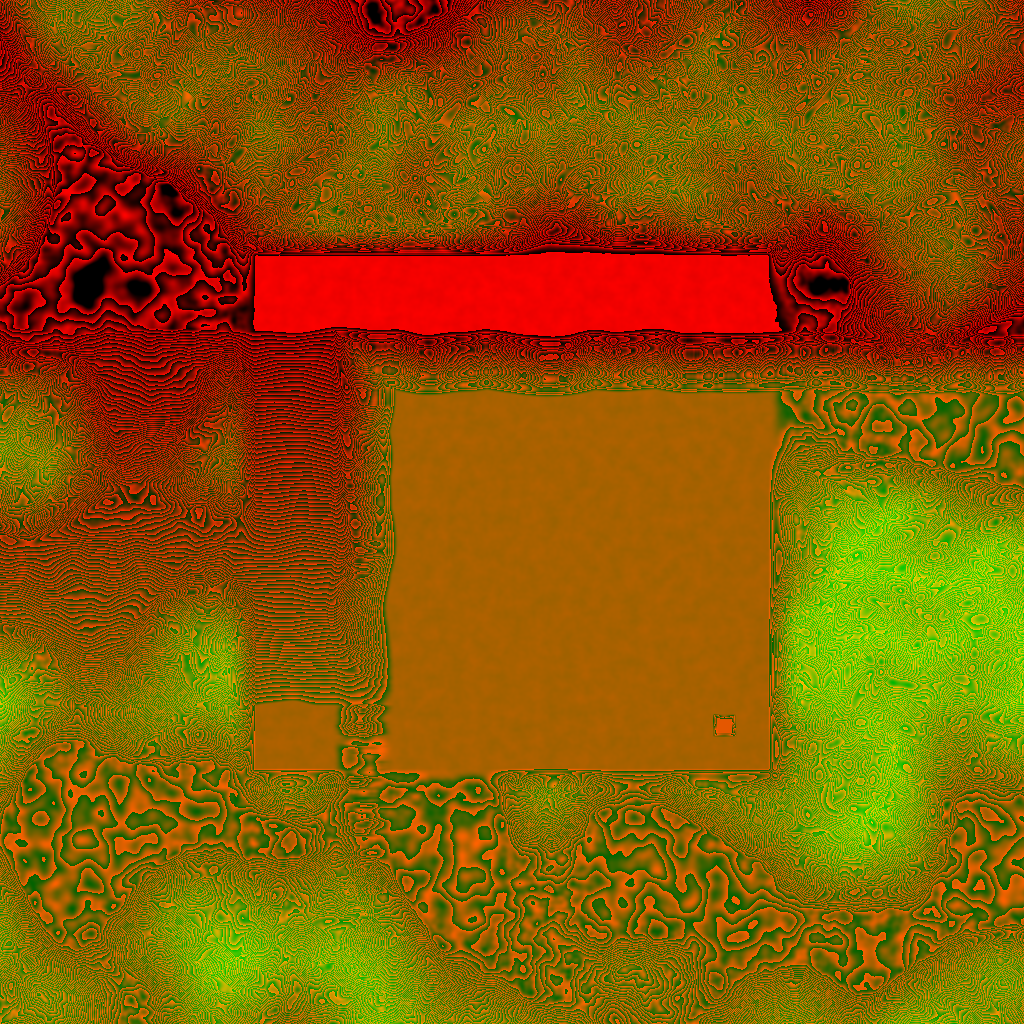
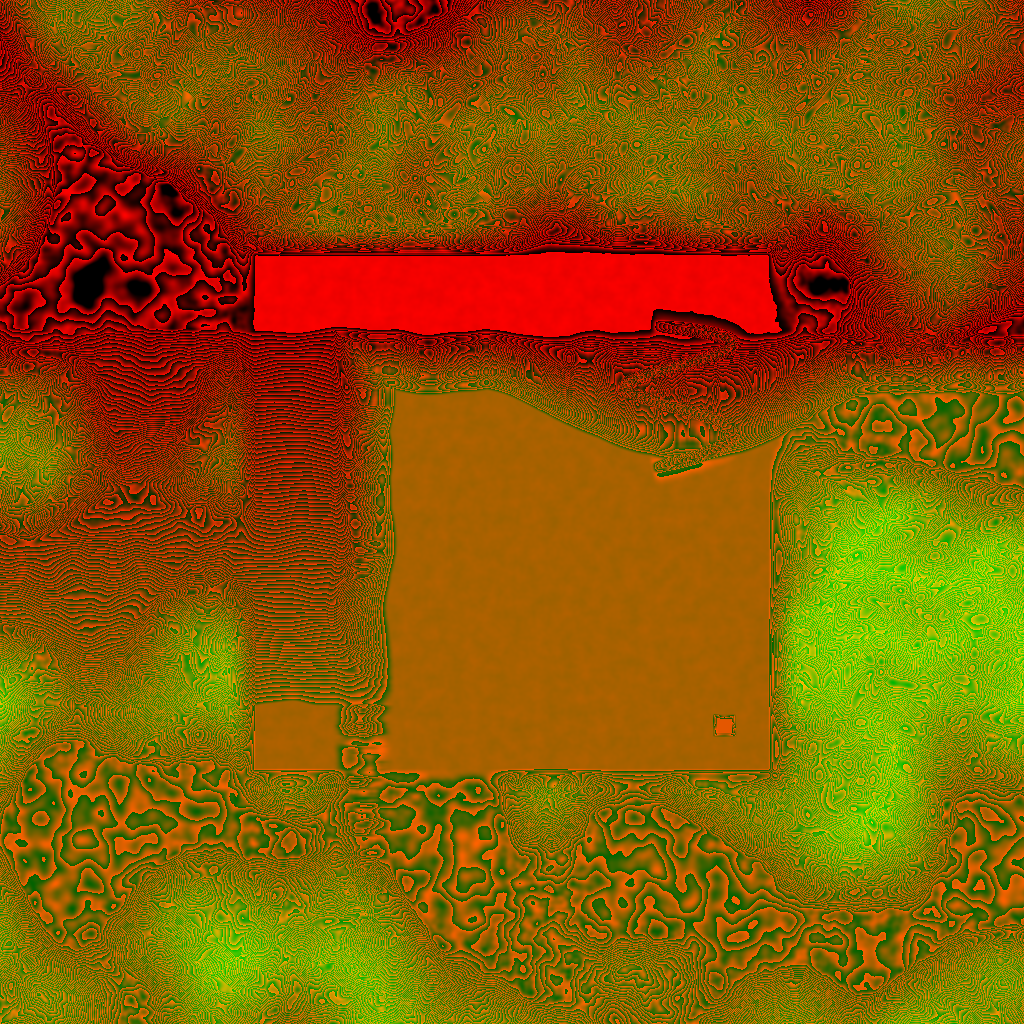
Agregamos un camino rapido sinuoso

Changed region(s): [[0.4688, 0.2812, 0.875, 0.4688]]

diff --git a/dem_generator_matopiba/dem_viewer_3d.html b/dem_generator_matopiba/dem_viewer_3d.html
@@ -702,7 +702,10 @@
             
             loadingProgress.innerText = "Cargando Textura del Mapa...";
             
-            textureLoader.load('dem_1024_texture.png', function(tex) {
+            // Cache-busting query parameter to force reloading the images from disk
+            const cb = '?t=' + Date.now();
+            
+            textureLoader.load('dem_1024_texture.png' + cb, function(tex) {
                 colorTexture = tex;
                 colorTexture.wrapS = THREE.ClampToEdgeWrapping;
                 colorTexture.wrapT = THREE.ClampToEdgeWrapping;
@@ -710,7 +713,7 @@
                 loadingProgress.innerText = "Cargando Datos de Elevación (16-bit)...";
                 
                 const img = new Image();
-                img.src = 'dem_1024_rgb16.png';
+                img.src = 'dem_1024_rgb16.png' + cb;
                 img.onload = function() {
                     heightmapImage = img;
                     
@@ -733,7 +736,7 @@
                 loadingProgress.innerText = "Error al cargar texturas. Iniciando con colores planos...";
                 // Fallback heightmap parse
                 const img = new Image();
-                img.src = 'dem_1024_rgb16.png';
+                img.src = 'dem_1024_rgb16.png' + cb;
                 img.onload = function() {
                     heightmapImage = img;
                     parseHeightmap(img);

diff --git a/dem_generator_matopiba/generate_layout_dem.py b/dem_generator_matopiba/generate_layout_dem.py
@@ -5,7 +5,8 @@ import time
 import math
 import numpy as np
 from PIL import Image
-from scipy.ndimage import distance_transform_edt
+from scipy.ndimage import distance_transform_edt, gaussian_filter
+from scipy.interpolate import make_interp_spline
 
 # For generating high-quality visual relief maps
 import matplotlib
@@ -100,6 +101,19 @@ def main():
     blue_boundary = float(offset + 600)
     south_boundary = float(offset + C)
     
+    # Extend the slope in the North-East quadrant to accommodate the road
+    # Default ramp_width is 500m.
+    # We increase it smoothly up to 1300m in the North-East region.
+    dx_ne = x_coords - 5500.0 * (S / 8192.0)
+    dy_ne = y_coords - 3100.0 * (S / 8192.0)
+    dist_ne = np.sqrt(dx_ne**2 + dy_ne**2)
+    # Cosine falloff over 1600 meters (scaled)
+    w_ne = np.clip(1.0 - dist_ne / (1600.0 * (S / 8192.0)), 0.0, 1.0)
+    w_ne = 0.5 * (1.0 - np.cos(np.pi * w_ne))
+    
+    # ramp_width is now a 2D map
+    ramp_width = 500.0 + 800.0 * w_ne
+    
     # Vertical ramp profile for the western strip (from blue_boundary to south_boundary)
     # Reach the 250m plateau early (500m before the southern playable border)
     # to create a flat base landing ("como una escalera").
@@ -107,9 +121,6 @@ def main():
     denom = max(1.0, south_boundary - base_size - blue_boundary)
     t_y = np.clip((y_warped - blue_boundary) / denom, 0.0, 1.0)
     H_west = 5.0 + (250.0 - 5.0) * t_y
-    
-    # Constant ramp width for uniform slope across the map
-    ramp_width = 500.0
     
     # Low zone mask is the L-shape (for distance transform)
     low_zone_mask = (x_warped <= blue_boundary) | (y_warped <= blue_boundary)
@@ -135,12 +146,92 @@ def main():
     # Base elevation in meters
     baseline_meters = H_start + (250.0 - H_start) * w_slope
     
+    # --- Winding Road Generation (Camino Ondulado) ---
+    print("3. Generating winding road in the North-East slope...")
+    scale = S / 8192.0
+    pts = np.array([
+        [5200.0, 2600.0],
+        [5700.0, 2850.0],
+        [5000.0, 3100.0],
+        [5700.0, 3350.0],
+        [5200.0, 3750.0]
+    ]) * scale
+    
+    t_pts = np.linspace(0.0, 1.0, len(pts))
+    spline = make_interp_spline(t_pts, pts, k=3)
+    
+    # Evaluate at high resolution to avoid gaps
+    t_eval = np.linspace(0.0, 1.0, 10000)
+    road_coords = spline(t_eval)
+    road_x = road_coords[:, 0]
+    road_y = road_coords[:, 1]
+    
+    # Calculate cumulative distance along the road
+    dx_road = np.diff(road_x)
+    dy_road = np.diff(road_y)
+    seg_lengths = np.sqrt(dx_road**2 + dy_road**2)
+    cum_dist = np.zeros(len(road_x))
+    cum_dist[1:] = np.cumsum(seg_lengths)
+    total_length = cum_dist[-1]
+    
+    # Road height goes from 5m to 250m
+    road_height = 5.0 + (250.0 - 5.0) * (cum_dist / total_length)
+    
+    # Rasterize the road onto a grid
+    road_grid = np.zeros((S, S), dtype=bool)
+    rx = np.clip(road_x.astype(np.int32), 0, S - 1)
+    ry = np.clip(road_y.astype(np.int32), 0, S - 1)
+    road_grid[ry, rx] = True
+    
+    # Calculate distance transform to the road
+    dist_to_road, indices = distance_transform_edt(~road_grid, return_indices=True)
+    nearest_y = indices[0]
+    nearest_x = indices[1]
+    
+    # Populate the road height grid
+    road_height_grid = np.zeros((S, S), dtype=np.float32)
+    road_height_grid[ry, rx] = road_height
+    nearest_road_height = road_height_grid[nearest_y, nearest_x]
+    
+    # Road parameters
+    road_r = 8.0 * scale
+    margin = 50.0 * scale  # Increased margin from 15.0 to 50.0 for much wider shoulders
+    blend_r = road_r + margin
+    
+    # Longitudinal weight based on road height to ensure it is 100% flat sideways on the slope
+    w_long = np.clip((nearest_road_height - 5.0) / 5.0, 0.0, 1.0) * np.clip((250.0 - nearest_road_height) / 5.0, 0.0, 1.0)
+    w_long = 0.5 * (1.0 - np.cos(np.pi * w_long))
+    
+    # Elevate the terrain around the road to create a natural supporting ridge/embankment
+    influence_r = 160.0 * scale
+    w_bump = np.clip(1.0 - dist_to_road / influence_r, 0.0, 1.0)
+    w_bump = 0.5 * (1.0 - np.cos(np.pi * w_bump))
+    baseline_meters += 2.0 * w_bump * w_long
+    
+    # Smooth the terrain surrounding the road (using Gaussian filter)
+    # to eliminate sharp cuts and blend the road naturally into the hillside.
+    smoothed_baseline = gaussian_filter(baseline_meters, sigma=35.0 * scale)
+    w_smooth = np.clip(1.0 - dist_to_road / (160.0 * scale), 0.0, 1.0)
+    w_smooth = 0.5 * (1.0 - np.cos(np.pi * w_smooth)) * w_long
+    baseline_meters = w_smooth * smoothed_baseline + (1.0 - w_smooth) * baseline_meters
+    
+    # Apply the flat road surface and blend the shoulders
+    t_road = np.clip((blend_r - dist_to_road) / margin, 0.0, 1.0)
+    w_road = 0.5 * (1.0 - np.cos(np.pi * t_road))
+    w_combined = w_road * w_long
+    
+    baseline_meters = w_combined * nearest_road_height + (1.0 - w_combined) * baseline_meters
+    
+    # Road suppression mask for terrain features (gullies, roughness)
+    road_suppression_base = np.clip((dist_to_road - road_r) / margin, 0.0, 1.0)
+    road_suppression = 1.0 - (1.0 - road_suppression_base) * w_long
+    
     # 5. Add Realistic Imperfections
     print("4. Adding realistic imperfections (slope ravines, erosion gullies & micro-roughness)...")
     # 5a. Slope imperfections (general organic ridges and valleys)
     slope_noise = generate_fractal_noise_2d((S, S), [16, 32, 64], [12.0, 6.0, 3.0], seed=args.seed + 102)
     slope_mask = 4.0 * w_slope * (1.0 - w_slope) # Only active on slopes (reaches 1.0 at midpoint)
-    baseline_meters += slope_noise * slope_mask
+    baseline_meters += slope_noise * slope_mask * road_suppression
     
     # 5b. Anisotropic Water Erosion Gullies (Cárcavas) running downhill
     print("   - Generating directional water erosion gullies on slopes...")
@@ -156,11 +247,11 @@ def main():
     
     # Blend erosion channels based on quadrant position to align with downhill gradient
     gullies = w_blend * gullies_west + (1.0 - w_blend) * gullies_north
-    baseline_meters -= gullies * slope_mask
+    baseline_meters -= gullies * slope_mask * road_suppression
     
     # 5c. Micro-roughness in flat terrain areas (smoothed to avoid bumpy farming fields)
     micro_roughness = generate_fractal_noise_2d((S, S), [64, 128, 256], [0.15, 0.08, 0.04], seed=args.seed + 103)
-    baseline_meters += micro_roughness
+    baseline_meters += micro_roughness * road_suppression
     
 
     

diff --git a/dem_generator_matopiba/create_3d_viewer.py b/dem_generator_matopiba/create_3d_viewer.py
@@ -815,7 +815,10 @@ def main():
             
             loadingProgress.innerText = "Cargando Textura del Mapa...";
             
-            textureLoader.load('dem_1024_texture.png', function(tex) {{
+            // Cache-busting query parameter to force reloading the images from disk
+            const cb = '?t=' + Date.now();
+            
+            textureLoader.load('dem_1024_texture.png' + cb, function(tex) {{
                 colorTexture = tex;
                 colorTexture.wrapS = THREE.ClampToEdgeWrapping;
                 colorTexture.wrapT = THREE.ClampToEdgeWrapping;
@@ -823,7 +826,7 @@ def main():
                 loadingProgress.innerText = "Cargando Datos de Elevación (16-bit)...";
                 
                 const img = new Image();
-                img.src = 'dem_1024_rgb16.png';
+                img.src = 'dem_1024_rgb16.png' + cb;
                 img.onload = function() {{
                     heightmapImage = img;
                     
@@ -846,7 +849,7 @@ def main():
                 loadingProgress.innerText = "Error al cargar texturas. Iniciando con colores planos...";
                 // Fallback heightmap parse
                 const img = new Image();
-                img.src = 'dem_1024_rgb16.png';
+                img.src = 'dem_1024_rgb16.png' + cb;
                 img.onload = function() {{
                     heightmapImage = img;
                     parseHeightmap(img);
